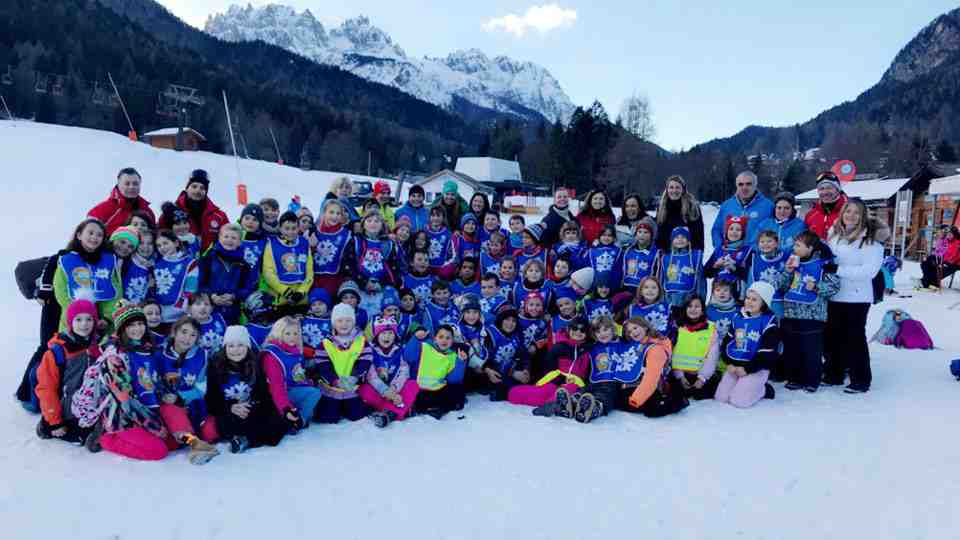
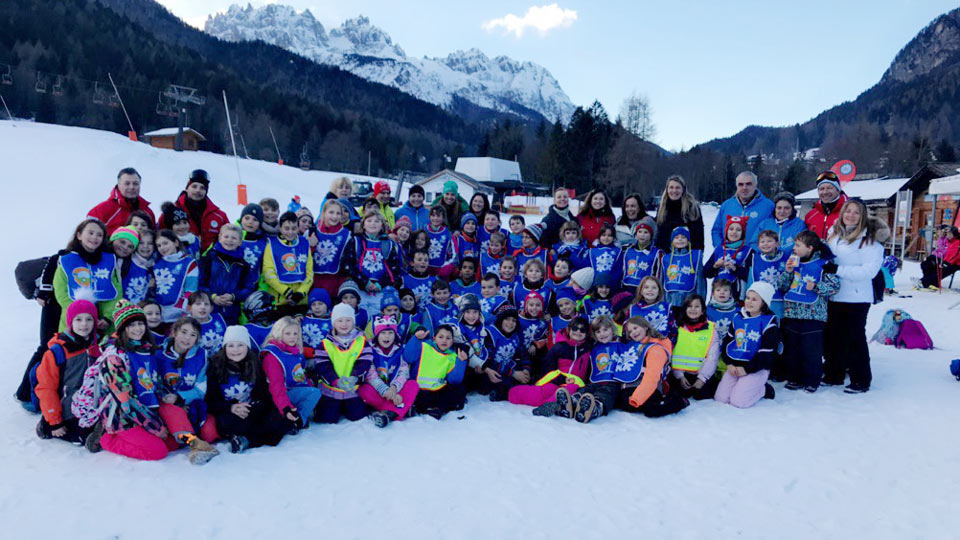
Changed initial main image

diff --git a/src/app/skupno/komponente/glavna/glavna.component.html b/src/app/skupno/komponente/glavna/glavna.component.html
@@ -1,6 +1,6 @@
 
 <div class="image-overlay">
-  <img class="main_image" src="./../../../../assets/Brdina_gasilska.jpg" alt="Your Image" />
+  <img class="main_image" src="./../../../../assets/Brdina_gasilska_2.jpg" alt="Your Image" />
   <div class="overlay-text bg-text">
     <h1>{{title[userStoritev.language]}}</h1>
     <button routerLink="/tecaji" type="button" class="btn btn-primary btn-lg odmik">{{title_buttons[userStoritev.language][0]}}</button>

diff --git a/src/index.html b/src/index.html
@@ -15,6 +15,8 @@
     crossorigin="anonymous"></script>
   <link rel="manifest" href="manifest.webmanifest">
   <meta name="theme-color" content="#1976d2">
+  <link rel="preload" fetchpriority="high" as="image" href="assets/Brdina_gasilska_2.jpg" type="image/jpg">
+
 </head>
 
 <body>
